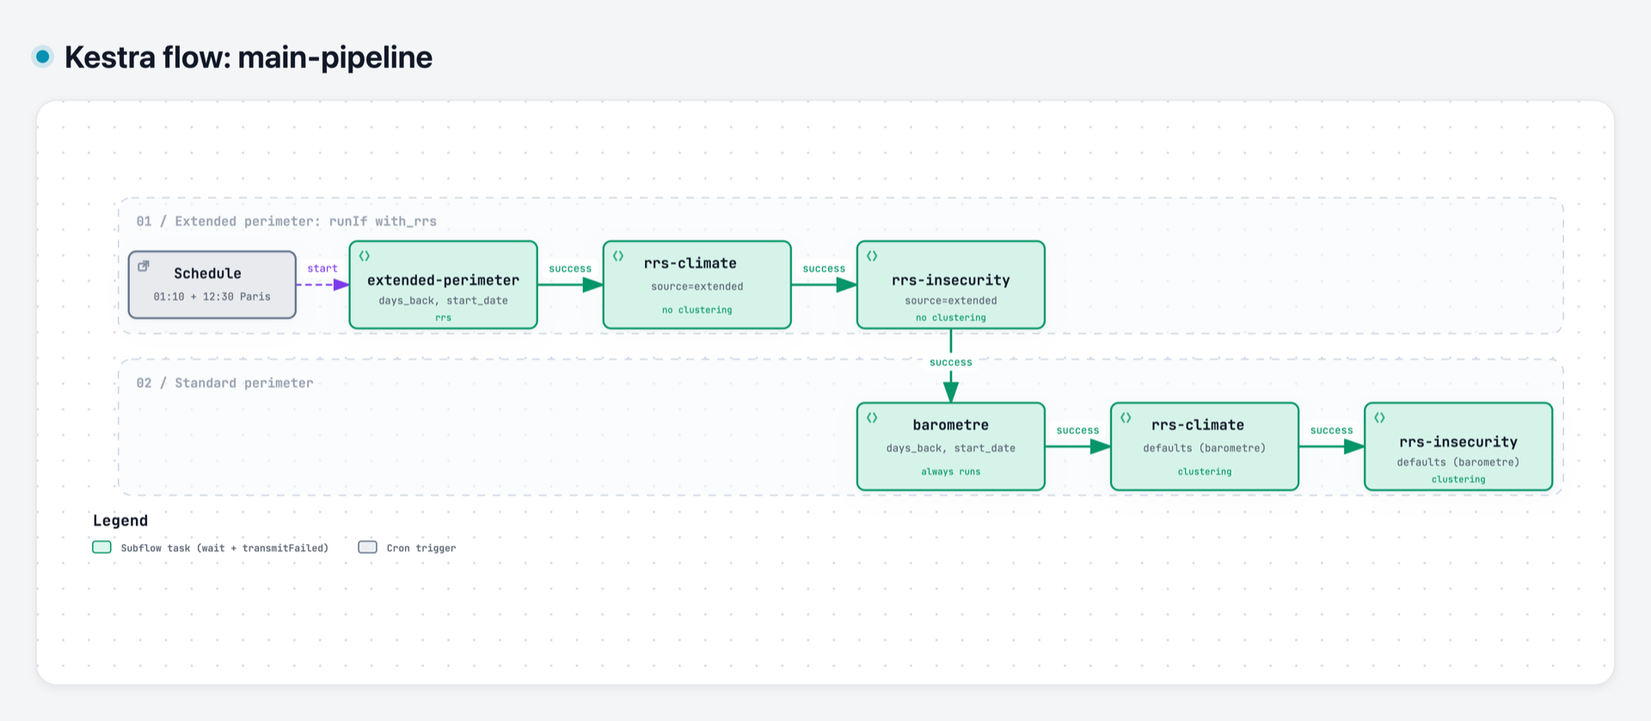
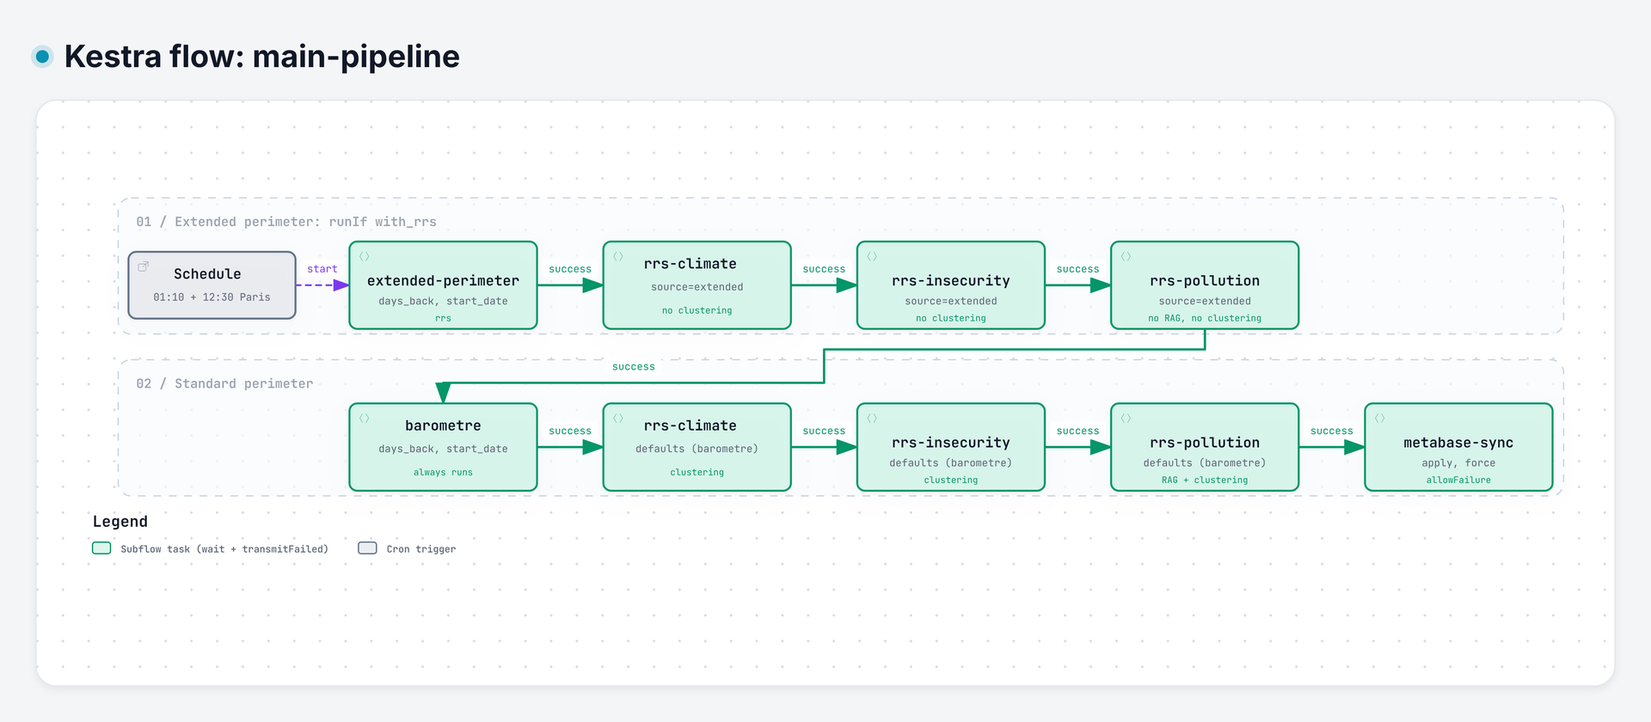
docs: main-pipeline diagram with the rrs-pollution steps and metabase-sync last
Rendered with Archify 3.0.1 (workflow, showcase), PNG exported in the light theme.

Claude-Session: https://claude.ai/code/session_01CCtPjNXbPoMu11qUobUY8j

diff --git a/docs/diagrams/flows/main-pipeline.html b/docs/diagrams/flows/main-pipeline.html
@@ -4982,7 +4982,7 @@ OTHER DEALINGS IN THE FONT SOFTWARE.
       </div>
     </div>
 
-    <script id="archify-source-evidence-data" type="application/json">{"schemaVersion":1,"verified":true,"repository":{"url":"git@github.com:dataforgoodfr/quotaclimat","revision":"c2defa51aafeac09df8121d063d0d352c0d1af69","shortRevision":"c2defa5","label":"dataforgoodfr/quotaclimat","linkMode":"local-only"},"referenceCount":7,"nodes":{"cron":[{"path":"infrastructure/kestra/flows/main_quotaclimat_mainpipeline.yaml","line":29,"endLine":38,"label":"triggers"}],"s_ext":[{"path":"infrastructure/kestra/flows/main_quotaclimat_mainpipeline.yaml","line":41,"endLine":50,"label":"subflow 1"}],"s_clim_ext":[{"path":"infrastructure/kestra/flows/main_quotaclimat_mainpipeline.yaml","line":52,"endLine":61,"label":"subflow 2"}],"s_insec_ext":[{"path":"infrastructure/kestra/flows/main_quotaclimat_mainpipeline.yaml","line":63,"endLine":72,"label":"subflow 3"}],"s_baro":[{"path":"infrastructure/kestra/flows/main_quotaclimat_mainpipeline.yaml","line":74,"endLine":82,"label":"subflow 4"}],"s_clim":[{"path":"infrastructure/kestra/flows/main_quotaclimat_mainpipeline.yaml","line":84,"endLine":90,"label":"subflow 5"}],"s_insec":[{"path":"infrastructure/kestra/flows/main_quotaclimat_mainpipeline.yaml","line":92,"endLine":98,"label":"subflow 6"}]}}</script>
+    <script id="archify-source-evidence-data" type="application/json">{"schemaVersion":1,"verified":true,"repository":{"url":"git@github.com:dataforgoodfr/quotaclimat","revision":"fb3faa8817d2df9f107b7281d69ce9f6ca0b9d7e","shortRevision":"fb3faa8","label":"dataforgoodfr/quotaclimat","linkMode":"local-only"},"referenceCount":10,"nodes":{"cron":[{"path":"infrastructure/kestra/flows/main_quotaclimat_mainpipeline.yaml","line":34,"endLine":43,"label":"triggers"}],"s_ext":[{"path":"infrastructure/kestra/flows/main_quotaclimat_mainpipeline.yaml","line":46,"endLine":55,"label":"subflow 1"}],"s_clim_ext":[{"path":"infrastructure/kestra/flows/main_quotaclimat_mainpipeline.yaml","line":57,"endLine":66,"label":"subflow 2"}],"s_insec_ext":[{"path":"infrastructure/kestra/flows/main_quotaclimat_mainpipeline.yaml","line":68,"endLine":77,"label":"subflow 3"}],"s_poll_ext":[{"path":"infrastructure/kestra/flows/main_quotaclimat_mainpipeline.yaml","line":79,"endLine":89,"label":"subflow 4"}],"s_baro":[{"path":"infrastructure/kestra/flows/main_quotaclimat_mainpipeline.yaml","line":91,"endLine":99,"label":"subflow 5"}],"s_clim":[{"path":"infrastructure/kestra/flows/main_quotaclimat_mainpipeline.yaml","line":101,"endLine":107,"label":"subflow 6"}],"s_insec":[{"path":"infrastructure/kestra/flows/main_quotaclimat_mainpipeline.yaml","line":109,"endLine":115,"label":"subflow 7"}],"s_poll":[{"path":"infrastructure/kestra/flows/main_quotaclimat_mainpipeline.yaml","line":117,"endLine":123,"label":"subflow 8"}],"s_metabase":[{"path":"infrastructure/kestra/flows/main_quotaclimat_mainpipeline.yaml","line":125,"endLine":135,"label":"subflow 9"}]}}</script>
     <script id="archify-i18n-data" type="application/json">{"locale":"en","messages":{"viewer.kind.frontend":"Frontend","viewer.kind.backend":"Backend","viewer.kind.database":"Database","viewer.kind.cloud":"Cloud","viewer.kind.security":"Security","viewer.kind.messagebus":"Message bus","viewer.kind.external":"External","viewer.kind.neutral":"Neutral","viewer.kind.node":"Node","viewer.kind.start":"Start","viewer.kind.active":"Active","viewer.kind.waiting":"Waiting","viewer.kind.decision":"Decision","viewer.kind.success":"Success","viewer.kind.failure":"Failure","viewer.toolbar.actions":"Diagram actions","viewer.theme.toggle.title":"Toggle theme (T)","viewer.theme.toggle":"Toggle color theme","viewer.theme.dark":"Dark","viewer.theme.light":"Light","viewer.preset.choose.title":"Choose visual style (S cycles)","viewer.preset.choose":"Choose visual style","viewer.preset.style":"Style","viewer.preset.menu":"Visual style","viewer.preset.identity":"Visual identity","viewer.preset.cycles":"to cycle","viewer.preset.classic":"Classic","viewer.preset.classic.short":"Classic","viewer.preset.classic.hint":"Stable technical default","viewer.preset.flow":"Signal Flow","viewer.preset.flow.short":"Flow","viewer.preset.flow.hint":"Motion-forward presentation","viewer.preset.blueprint":"Blueprint","viewer.preset.blueprint.hint":"Engineering review","viewer.preset.editorial":"Editorial","viewer.preset.editorial.hint":"Publication and launch notes","viewer.preset.badge.signalFlow":"SIGNAL FLOW","viewer.preset.badge.blueprint":"BLUEPRINT / REV 01","viewer.preset.badge.editorial":"EDITORIAL / FIELD NOTE","viewer.preset.badge.editorialPlate":"ARCHIFY / PLATE 04","viewer.preset.current":"Visual style: {style}. Choose visual style","viewer.motion.live":"Live","viewer.motion.still":"Still","viewer.motion.pause":"Pause motion","viewer.motion.resume":"Resume motion","viewer.motion.reduced":"Motion paused by reduced-motion preference","viewer.motion.hidden":"Motion paused while this page is hidden","viewer.motion.yielding":"Pause motion; currently yielding to {owner}","viewer.motion.yielding.title":"Live preview enabled · yielding to {owner}","viewer.owner.route":"Route Probe","viewer.owner.lens":"Semantic Lens","viewer.owner.relationship":"Relationship Preview","viewer.owner.intent":"Intent Trace","viewer.owner.focus":"semantic focus","viewer.owner.legend":"legend preview","viewer.owner.reader":"reader interaction","viewer.present.enter":"Enter presentation stage","viewer.present.enter.title":"Presentation stage (F)","viewer.present.exit":"Exit presentation stage","viewer.present.exit.title":"Exit presentation stage (F or Escape)","viewer.present.present":"Present","viewer.present.exit.label":"Exit","viewer.export.button":"Export","viewer.export.button.title":"Export diagram (E)","viewer.export.diagram":"Export diagram","viewer.export.menu":"Export","viewer.export.subtitle":"Portable, clean outputs","viewer.export.share":"Share","viewer.export.shareCard":"Share Card","viewer.export.routeShareCard":"Route Share Card","viewer.export.reachShareCard":"Reach Share Card","viewer.export.copyDiagram":"Copy diagram","viewer.export.clipboardPng":"PNG to clipboard","viewer.export.raster":"Raster images","viewer.export.image":"Image","viewer.export.lossless":"Lossless image","viewer.export.compact":"Compact image","viewer.export.modern":"Modern image","viewer.export.vectorMotion":"Vector and motion","viewer.export.vectorMotion.heading":"Vector \u0026 motion","viewer.export.editable":"Editable vector","viewer.export.svg.auto":"SVG · Auto","viewer.export.svg.auto.hint":"Matches host theme","viewer.export.svg.light":"SVG · Light","viewer.export.svg.light.hint":"Always light","viewer.export.svg.dark":"SVG · Dark","viewer.export.svg.dark.hint":"Always dark","viewer.export.motion6s":"6s motion","viewer.export.unsupported":"Not supported by this browser","viewer.export.clipboardUnsupported":"Clipboard image write not supported by this browser","viewer.export.clipboardUnsupported.short":"Clipboard image write not supported in this browser.","viewer.export.motionUnavailable":"Motion capture unavailable in this browser","viewer.export.webmUnavailable":"WebM unavailable in this browser","viewer.export.failed":"Export failed: {message}","viewer.export.unknownVariant":"Unknown Share Card variant: {variant}","viewer.export.routeRequired":"Trace a route before exporting a Route Share Card","viewer.export.reachRequired":"Trace authored reach before exporting a Reach Share Card","viewer.export.unknown":"unknown","viewer.export.routeFailed":"Route Share Card export failed: {message}","viewer.export.reachFailed":"Reach Share Card export failed: {message}","viewer.export.copyFailed":"Copy failed: {message}","viewer.export.copiedPng":"Copied PNG to clipboard","viewer.export.downloadedRoute":"Downloaded Route Share Card","viewer.export.downloadedReach":"Downloaded Reach Share Card","viewer.export.downloadedWebm":"Downloaded WebM","viewer.export.recording":"Recording 6 seconds of motion…","viewer.export.card.routeSummary.one":"Path: {source} → {target} · {count} step","viewer.export.card.routeSummary.other":"Path: {source} → {target} · {count} steps","viewer.export.card.reachSummary":"Authored {direction} from {origin} · {nodes} · {links} · max {hops}","viewer.export.card.node.one":"{count} node","viewer.export.card.node.other":"{count} nodes","viewer.export.card.link.one":"{count} link","viewer.export.card.link.other":"{count} links","viewer.export.card.hop.one":"{count} hop","viewer.export.card.hop.other":"{count} hops","viewer.export.card.routeBadge":"ARCHIFY · ROUTE · {hops}","viewer.export.card.reachBadge":"ARCHIFY · {direction} REACH","viewer.export.direction.upstream":"Upstream","viewer.export.direction.downstream":"Downstream","viewer.export.error.canvasUnavailable":"Canvas unavailable for {label}","viewer.export.error.contextUnavailable":"2D canvas context unavailable for {label}","viewer.export.error.toBlobUnavailable":"canvas.toBlob unavailable for {label}","viewer.export.error.toBlobNull":"canvas.toBlob returned no data for {label}","viewer.export.error.variantsCombined":"Share Card variants cannot be combined","viewer.export.error.viewerState":"Share Card export could not remove temporary viewer state","viewer.export.error.routeState":"Route Card export could not preserve the resolved route safely","viewer.export.error.reachState":"Reach Card export could not preserve authored reach safely","viewer.export.error.webmRequirements":"WebM motion export requires a trace animation and browser MediaRecorder support","viewer.export.error.mediaRecorder":"MediaRecorder failed","viewer.export.error.emptyWebm":"MediaRecorder produced an empty WebM","viewer.export.error.webmBackground":"SVG background could not be loaded for WebM export","viewer.guide.title":"Explore this system","viewer.focus.selectedNodes":"{count} selected nodes","viewer.guide.eyebrow":"Diagram guide","viewer.guide.close":"Close diagram guide","viewer.guide.inspecting":"Inspecting compiled semantics","viewer.guide.actions":"Diagram exploration actions","viewer.guide.find":"Find any node","viewer.guide.find.hint":"Search labels, responsibilities, kinds, and stable IDs.","viewer.guide.route":"Trace a route","viewer.guide.route.aria":"Trace a directed route","viewer.guide.route.hint":"Ask how two semantic nodes connect in authored direction.","viewer.guide.map":"See the whole system","viewer.guide.map.hint":"Open Semantic Radar with a live viewport and stable nodes.","viewer.guide.lens":"Compare semantic kinds","viewer.guide.lens.hint":"Count roles, reveal their traffic, and compare direct authored links.","viewer.guide.present":"Enter Presentation Stage","viewer.guide.present.hint":"Give the live diagram the viewport without changing export.","viewer.guide.shortcuts":"Additional keyboard shortcuts","viewer.guide.shortcut.export":"Export","viewer.guide.shortcut.theme":"Theme","viewer.guide.shortcut.style":"Style","viewer.guide.shortcut.reset":"Reset","viewer.guide.shortcut.zoomIn":"Zoom in","viewer.guide.shortcut.zoomOut":"Zoom out","viewer.guide.shortcut.close":"Close","viewer.guide.facts":"{nodes} · {relationships}","viewer.guide.fact.node.one":"{count} semantic node","viewer.guide.fact.node.other":"{count} semantic nodes","viewer.guide.fact.relationship.one":"{count} relationship","viewer.guide.fact.relationship.other":"{count} relationships","viewer.guide.open":"Open diagram guide","viewer.finder.title":"Find a node","viewer.finder.close":"Close node finder","viewer.finder.placeholder":"Search labels or IDs","viewer.finder.search":"Search diagram nodes","viewer.finder.results":"Diagram nodes","viewer.finder.empty":"No matching nodes","viewer.finder.result.focus":"Focus {label}","viewer.finder.result.routeStart":"Choose {label} as route start","viewer.finder.result.routeTarget":"Choose {label} as route destination, {links}","viewer.finder.status.empty":"No matching nodes","viewer.finder.status.count.one":"{count} matching node","viewer.finder.status.count.other":"{count} matching nodes","viewer.finder.noun.nodes":"nodes","viewer.finder.link.one":"{count} link","viewer.finder.link.other":"{count} links","viewer.finder.result.focus.one":"Focus {label}, {count} related connection","viewer.finder.result.focus.other":"Focus {label}, {count} related connections","viewer.finder.status.filtered":"{visible} of {available} {noun}","viewer.finder.status.all":"{available} {noun}","viewer.passport.eyebrow":"Semantic passport","viewer.passport.metadata":"Node metadata","viewer.passport.evidence":"Verified source evidence","viewer.passport.verified":"Verified source","viewer.passport.verificationScope":"Verified against local Git at the pinned revision. Remote access has not been checked.","viewer.passport.reach":"Authored reach","viewer.passport.reach.trace":"Trace authored reachability","viewer.passport.upstream":"Upstream","viewer.passport.downstream":"Downstream","viewer.passport.upstream.trace":"Trace upstream authored reachability","viewer.passport.downstream.trace":"Trace downstream authored reachability","viewer.passport.close":"Close semantic passport","viewer.passport.move":"Move semantic passport. Drag, use arrow keys, or press Home to reset.","viewer.passport.copy":"Copy link","viewer.passport.copy.focus":"Copy link to focused node","viewer.passport.relations":"Relations","viewer.passport.relations.show":"Show connected relationships","viewer.passport.relations.hide":"Hide connected relationships","viewer.passport.relations.list":"Connected relationships","viewer.passport.copyRelation":"Copy relation","viewer.passport.copyNode":"Copy node","viewer.passport.copyPinned":"Copy link to pinned relationship","viewer.passport.copySource":"Copy link to source node","viewer.passport.copy.focused.success":"Focused node link copied","viewer.passport.copy.pinned.success":"Pinned relationship link copied","viewer.passport.copy.focused.failed":"Could not copy focused node link","viewer.passport.copy.pinned.failed":"Could not copy pinned relationship link","viewer.passport.relationship.none":"No connected relationships","viewer.passport.relationship.count.one":"{count} relation","viewer.passport.relationship.count.other":"{count} relations","viewer.passport.relationship.show.one":"Show {count} connected relationship","viewer.passport.relationship.show.other":"Show {count} connected relationships","viewer.passport.relationship.summary":"{out} outgoing · {in} incoming{loops}","viewer.passport.relationship.loops":" · {count} loop","viewer.passport.relationship.explorer":"Direct relationship explorer","viewer.passport.relationship.help":"Use arrow keys to explore relationships. Press Enter or Space to pin details; Escape clears.","viewer.passport.relationship.loopsBack":"loops back","viewer.passport.relationship.connectsTo":"connects to","viewer.passport.relationship.connectsFrom":"connects from","viewer.passport.relationship.pinned":"Pinned relationship · {from} → {to} · {label}","viewer.passport.relationship.inspect":"Inspect relationship {index} of {total}: {from} to {to}, {label}. Press Enter for details.","viewer.passport.relationship.group.out":"Outgoing","viewer.passport.relationship.group.in":"Incoming","viewer.passport.relationship.group.loop":"Self loops","viewer.passport.relationship.row":"{group}: {relationship}, {neighbor}","viewer.passport.relationship.direction.out":"OUT →","viewer.passport.relationship.direction.in":"← IN","viewer.passport.relationship.direction.loop":"LOOP","viewer.passport.sourceCount.one":"{count} verified source reference","viewer.passport.sourceCount.other":"{count} verified source references","viewer.passport.sourceMarker":"SRC","viewer.passport.beacon.one":"{count} verified source; focus this node to inspect","viewer.passport.beacon.other":"{count} verified sources; focus this node to inspect","viewer.passport.repository.open":"Open verified repository revision {revision}","viewer.passport.source.open":"Open verified source {path} at revision {revision}","viewer.passport.source.openLink":"Open ↗","viewer.passport.reach.upstream.one":"Trace {count} upstream authored node","viewer.passport.reach.upstream.other":"Trace {count} upstream authored nodes","viewer.passport.reach.downstream.one":"Trace {count} downstream authored node","viewer.passport.reach.downstream.other":"Trace {count} downstream authored nodes","viewer.passport.reach.noUpstream":"No upstream authored nodes","viewer.passport.reach.noDownstream":"No downstream authored nodes","viewer.passport.reach.status":"{direction} · {nodes} nodes · {links} links · max {hops} hops","viewer.route.eyebrow":"Path","viewer.route.start":"Click where the path starts","viewer.route.start.find":"Find start","viewer.route.start.find.aria":"Find a route start","viewer.route.copy":"Copy link","viewer.route.copy.aria":"Copy link to traced route","viewer.route.clear":"Clear","viewer.route.clear.aria":"Clear route probe","viewer.route.traced":"Path","viewer.route.pickTwo":"Click two nodes on the diagram","viewer.route.pickOne":"Click a node on the diagram","viewer.route.controls":"Route journey controls","viewer.route.previous":"Previous route position","viewer.route.play":"Play route journey","viewer.route.pause":"Pause route journey","viewer.route.replay":"Replay route journey","viewer.route.next":"Next route position","viewer.route.journey":"Journey","viewer.route.pause.label":"Pause","viewer.route.replay.label":"Replay","viewer.route.overview":"Overview","viewer.route.overview.aria":"Show complete route overview","viewer.route.instructions":"Click a start, then an end. Paths follow the arrows.","viewer.route.destination":"Where does the path from {label} end?","viewer.route.destination.find":"Find target","viewer.route.destination.find.aria":"Find a reachable route destination","viewer.route.differentDestination":"Choose a different destination","viewer.route.distinct":"Pick two different nodes.","viewer.route.unreachable":"Cannot reach {label} from here","viewer.route.unreachable.detail":"{target} cannot be reached from {source} along the arrows. Pick a highlighted node.","viewer.route.start.instructions":"Next, pick the end. Only nodes you can reach will light up.","viewer.route.copy.success":"Traced route link copied","viewer.route.copy.failed":"Could not copy traced route link","viewer.route.position":"Route position {index} of {total}: {label}","viewer.route.step":"Step {index} of {total} · {phase} · {label}","viewer.route.motionRequired":"Automatic journey requires Live motion","viewer.route.trigger.clear":"Clear traced route","viewer.route.overview.status":"{nodes} · {hops} · shortest path","viewer.route.overview.node.one":"{count} node","viewer.route.overview.node.other":"{count} nodes","viewer.route.overview.hop.one":"{count} step","viewer.route.overview.hop.other":"{count} steps","viewer.route.phase.playing":"Playing","viewer.route.phase.complete":"Complete","viewer.route.phase.inspecting":"Inspecting","viewer.route.destination.count.one":"{count} reachable node is highlighted. Click it.","viewer.route.destination.count.other":"{count} reachable nodes are highlighted. Click one.","viewer.route.noOutgoing":"No arrows lead out of this node. Clear it and pick another start.","viewer.route.result.title":"{source} to {target}","viewer.route.finder.source.title":"Choose route start","viewer.route.finder.source.placeholder":"Search route sources","viewer.route.finder.source.empty":"No matching route sources","viewer.route.finder.source.results":"Nodes that can start a route","viewer.route.finder.source.noun":"route sources","viewer.route.finder.source.badge":"start","viewer.route.finder.target.title":"Destination from {label}","viewer.route.finder.target.placeholder":"Search reachable destinations","viewer.route.finder.target.empty":"No matching reachable destinations","viewer.route.finder.target.results":"Reachable route destinations","viewer.route.finder.target.noun":"reachable destinations","viewer.route.hop.one":"{count} hop","viewer.route.hop.other":"{count} hops","viewer.lens.eyebrow":"Semantic lens","viewer.lens.title":"Compare system roles","viewer.lens.close":"Close semantic lens","viewer.lens.instruction":"Choose up to two semantic kinds. One reveals its real traffic; two compare only direct authored relationships.","viewer.lens.kinds":"Semantic kinds","viewer.lens.choose":"Choose a kind to inspect its nodes and touching relationships.","viewer.lens.copy":"Copy link to semantic lens","viewer.lens.clear":"Clear semantic lens","viewer.lens.open":"Open semantic lens","viewer.lens.openActive":"Open active semantic lens","viewer.lens.legend":"Semantic legend","viewer.lens.legend.inspect.one":"Inspect {label}, {count} node","viewer.lens.legend.inspect.other":"Inspect {label}, {count} nodes","viewer.lens.kind.count.one":"{label}, {count} node","viewer.lens.kind.count.other":"{label}, {count} nodes","viewer.lens.compare.one":"{first} → {second}: {forward} · {second} → {first}: {reverse} · {count} direct relationship","viewer.lens.compare.other":"{first} → {second}: {forward} · {second} → {first}: {reverse} · {count} direct relationships","viewer.lens.single":"{nodes} · {relationships} · connected peers remain visible","viewer.lens.node.one":"{count} {label} node","viewer.lens.node.other":"{count} {label} nodes","viewer.lens.relationship.one":"{count} touching relationship","viewer.lens.relationship.other":"{count} touching relationships","viewer.radar.title":"Semantic radar","viewer.radar.building":"Building overview","viewer.radar.openFull":"Open full semantic radar","viewer.radar.open":"Open radar","viewer.radar.close":"Close semantic radar","viewer.radar.surface":"Diagram overview. Click a node to focus it, or use arrow keys to pan.","viewer.radar.click":"Click node","viewer.radar.drag":"Drag to pan","viewer.radar.space":"Semantic radar needs more MAP space.","viewer.radar.nodes":"Semantic diagram radar nodes","viewer.radar.focus":"Focus {label} from Semantic Radar","viewer.radar.status":"{count} nodes · {viewport}","viewer.radar.fullMap":"{count} nodes · full map","viewer.radar.compacted":"Radar compacted to avoid covering the Semantic Passport or MAP controls.","viewer.radar.cancelWaiting":"Cancel semantic radar waiting for more MAP space","viewer.radar.needsSpace":"Semantic radar needs more visible MAP space","viewer.radar.viewport.full":"full map","viewer.radar.viewport.width":"{percent}% width","viewer.radar.viewport.scale":"{percent}% viewport","viewer.nav.controls":"Diagram view controls","viewer.nav.route":"Trace a directed route","viewer.nav.route.title":"Trace route (R)","viewer.nav.route.short":"PATH","viewer.nav.radar":"Open semantic radar","viewer.nav.radar.title":"Semantic radar (M)","viewer.nav.radar.short":"MAP","viewer.nav.lens":"Open semantic lens","viewer.nav.lens.title":"Semantic lens (L)","viewer.nav.lens.short":"LENS","viewer.nav.find":"Find a node","viewer.nav.find.title":"Find a node (/)","viewer.outline.title":"Node index","viewer.rail.show":"Notes \u0026 index","viewer.rail.controls":"Side panel","viewer.rail.collapse":"Collapse side panel","viewer.rail.bottom":"Move panel below the diagram","viewer.rail.right":"Move panel beside the diagram","viewer.nav.guide":"Open diagram guide","viewer.nav.guide.title":"Diagram guide (?)","viewer.nav.zoomOut":"Zoom out","viewer.nav.zoomOut.title":"Zoom out (-)","viewer.nav.reset":"Reset diagram view","viewer.nav.reset.title":"Reset view (0)","viewer.nav.read":"READ","viewer.nav.zoomIn":"Zoom in","viewer.nav.zoomIn.title":"Zoom in (+)","viewer.nav.camera":"{hint}. Reset diagram view","viewer.nav.camera.title":"{semantic}{hint} · reset view (0)","viewer.nav.camera.semantic":"Semantic camera active · ","viewer.nav.level.map":"MAP","viewer.nav.level.read":"READ","viewer.nav.level.full":"FULL","viewer.nav.level.auto":"AUTO","viewer.nav.detail.map":"Zoom in to reveal relationship labels and node context","viewer.nav.detail.read":"Zoom in again to reveal tags and annotations","viewer.nav.detail.full":"Full diagram detail","viewer.intent.summary":"{label}. {out} outgoing, {in} incoming{loops}. {total} connections. Press Enter for details.","viewer.intent.loops":", {count} self loop","viewer.common.copied":"Copied","viewer.common.copyFailed":"Copy failed","viewer.common.copyLink":"Copy link","viewer.common.clear":"Clear","viewer.common.close":"Close"}}</script>
     <!-- Main Diagram -->
     <div class="diagram-container" data-detail-level="read"
@@ -5026,12 +5026,15 @@ OTHER DEALINGS IN THE FONT SOFTWARE.
 
 
         <!-- Edge paths -->
-        <path data-edge-from="s_ext" data-edge-to="s_clim_ext" data-edge-label="success" data-edge-key="0" data-edge-id="e-1" data-composition-routing="workflow-v2-auto" data-edge-role="main" data-composition-points="366,120;417.6,120" d="M 366 120 L 417.6 120" class="a-emphasis" stroke-width="1.8" marker-end="url(#arrowhead-emphasis)"/>
-        <path data-edge-from="s_clim_ext" data-edge-to="s_insec_ext" data-edge-label="success" data-edge-key="1" data-edge-id="e-2" data-composition-routing="workflow-v2-auto" data-edge-role="main" data-composition-points="563.6,120;615.2,120" d="M 563.6 120 L 615.2 120" class="a-emphasis" stroke-width="1.8" marker-end="url(#arrowhead-emphasis)"/>
-        <path data-edge-from="s_insec_ext" data-edge-to="s_baro" data-edge-label="success" data-edge-key="2" data-edge-id="e-3" data-edge-role="main" data-composition-points="688.2,154;688.2,212" d="M 688.2 154 L 688.2 212" class="a-emphasis" stroke-width="1.8" marker-end="url(#arrowhead-emphasis)"/>
-        <path data-edge-from="s_baro" data-edge-to="s_clim" data-edge-label="success" data-edge-key="3" data-edge-id="e-4" data-composition-routing="workflow-v2-auto" data-edge-role="main" data-composition-points="761.2,246;812.8000000000001,246" d="M 761.2 246 L 812.8000000000001 246" class="a-emphasis" stroke-width="1.8" marker-end="url(#arrowhead-emphasis)"/>
-        <path data-edge-from="s_clim" data-edge-to="s_insec" data-edge-label="success" data-edge-key="4" data-edge-id="e-5" data-composition-routing="workflow-v2-auto" data-edge-role="main" data-composition-points="958.8000000000001,246;1010.4000000000001,246" d="M 958.8000000000001 246 L 1010.4000000000001 246" class="a-emphasis" stroke-width="1.8" marker-end="url(#arrowhead-emphasis)"/>
-        <path data-edge-from="cron" data-edge-to="s_ext" data-edge-label="start" data-edge-key="5" data-edge-id="e-cron" data-composition-routing="workflow-v2-auto" data-edge-role="" data-composition-points="178,120;220,120" d="M 178 120 L 220 120" class="a-dashed" stroke-width="1.4" marker-end="url(#arrowhead-dashed)"/>
+        <path data-edge-from="s_ext" data-edge-to="s_clim_ext" data-edge-label="success" data-edge-key="0" data-edge-id="e-1" data-composition-routing="workflow-v2-auto" data-edge-role="branch" data-composition-points="366,120;417.6,120" d="M 366 120 L 417.6 120" class="a-emphasis" stroke-width="1.8" marker-end="url(#arrowhead-emphasis)"/>
+        <path data-edge-from="s_clim_ext" data-edge-to="s_insec_ext" data-edge-label="success" data-edge-key="1" data-edge-id="e-2" data-composition-routing="workflow-v2-auto" data-edge-role="branch" data-composition-points="563.6,120;615.2,120" d="M 563.6 120 L 615.2 120" class="a-emphasis" stroke-width="1.8" marker-end="url(#arrowhead-emphasis)"/>
+        <path data-edge-from="s_insec_ext" data-edge-to="s_poll_ext" data-edge-label="success" data-edge-key="2" data-edge-id="e-3" data-composition-routing="workflow-v2-auto" data-edge-role="branch" data-composition-points="761.2,120;812.8000000000001,120" d="M 761.2 120 L 812.8000000000001 120" class="a-emphasis" stroke-width="1.8" marker-end="url(#arrowhead-emphasis)"/>
+        <path data-edge-from="s_poll_ext" data-edge-to="s_baro" data-edge-label="success" data-edge-key="3" data-edge-id="e-4" data-edge-role="return" data-composition-points="885.8000000000001,154;885.8000000000001,170;589.4000000000001,170;589.4000000000001,196;293,196;293,212" d="M 885.8000000000001 154 L 885.8000000000001 170 L 589.4000000000001 170 L 589.4000000000001 196 L 293 196 L 293 212" class="a-emphasis" stroke-width="1.8" marker-end="url(#arrowhead-emphasis)"/>
+        <path data-edge-from="s_baro" data-edge-to="s_clim" data-edge-label="success" data-edge-key="4" data-edge-id="e-5" data-composition-routing="workflow-v2-auto" data-edge-role="main" data-composition-points="366,246;417.6,246" d="M 366 246 L 417.6 246" class="a-emphasis" stroke-width="1.8" marker-end="url(#arrowhead-emphasis)"/>
+        <path data-edge-from="s_clim" data-edge-to="s_insec" data-edge-label="success" data-edge-key="5" data-edge-id="e-6" data-composition-routing="workflow-v2-auto" data-edge-role="main" data-composition-points="563.6,246;615.2,246" d="M 563.6 246 L 615.2 246" class="a-emphasis" stroke-width="1.8" marker-end="url(#arrowhead-emphasis)"/>
+        <path data-edge-from="s_insec" data-edge-to="s_poll" data-edge-label="success" data-edge-key="6" data-edge-id="e-7" data-composition-routing="workflow-v2-auto" data-edge-role="main" data-composition-points="761.2,246;812.8000000000001,246" d="M 761.2 246 L 812.8000000000001 246" class="a-emphasis" stroke-width="1.8" marker-end="url(#arrowhead-emphasis)"/>
+        <path data-edge-from="s_poll" data-edge-to="s_metabase" data-edge-label="success" data-edge-key="7" data-edge-id="e-8" data-composition-routing="workflow-v2-auto" data-edge-role="main" data-composition-points="958.8000000000001,246;1010.4000000000001,246" d="M 958.8000000000001 246 L 1010.4000000000001 246" class="a-emphasis" stroke-width="1.8" marker-end="url(#arrowhead-emphasis)"/>
+        <path data-edge-from="cron" data-edge-to="s_ext" data-edge-label="start" data-edge-key="8" data-edge-id="e-cron" data-composition-routing="workflow-v2-auto" data-edge-role="" data-composition-points="178,120;220,120" d="M 178 120 L 220 120" class="a-dashed" stroke-width="1.4" marker-end="url(#arrowhead-dashed)"/>
 
         <!-- Nodes -->
         <g id="node-cron" data-node-id="cron" data-node-label="Schedule" tabindex="0" role="button" aria-label="Focus Schedule, 01:10 + 12:30 Paris, Extended perimeter: runIf with_rrs" aria-pressed="false" data-node-kind="external" data-node-sublabel="01:10 + 12:30 Paris" data-node-context="Extended perimeter: runIf with_rrs">
@@ -5082,40 +5085,76 @@ OTHER DEALINGS IN THE FONT SOFTWARE.
         <text data-detail="fine" x="688.2" y="147.9" class="t-backend" font-size="7" text-anchor="middle">no clustering</text>
         </g>
 
+        <g id="node-s_poll_ext" data-node-id="s_poll_ext" data-node-label="rrs-pollution" tabindex="0" role="button" aria-label="Focus rrs-pollution, source=extended, Extended perimeter: runIf with_rrs" aria-pressed="false" data-node-kind="backend" data-node-sublabel="source=extended" data-node-tag="no RAG, no clustering" data-node-context="Extended perimeter: runIf with_rrs">
+          <title>rrs-pollution · source=extended · Extended perimeter: runIf with_rrs · no RAG, no clustering</title>
+          <rect x="812.8000000000001" y="86" width="146" height="68" rx="6" class="c-mask"/>
+          <rect x="812.8000000000001" y="86" width="146" height="68" rx="6" class="c-backend" stroke-width="1.5"/>
+          <g aria-hidden="true" data-semantic-sigil="backend" class="semantic-sigil s-backend" transform="translate(818.8000000000001 92) scale(0.6875)">
+            <path d="M6 3 3 8l3 5M10 3l3 5-3 5"/>
+          </g>
+          <text data-node-label="" data-detail-anchor="" x="885.8000000000001" y="120.2" class="t-primary" font-size="11" font-weight="600" text-anchor="middle">rrs-pollution</text>
+          <text data-detail="context" x="885.8000000000001" y="135.1" class="t-muted" font-size="8" text-anchor="middle">source=extended</text>
+        <text data-detail="fine" x="885.8000000000001" y="147.9" class="t-backend" font-size="7" text-anchor="middle">no RAG, no clustering</text>
+        </g>
+
         <g id="node-s_baro" data-node-id="s_baro" data-node-label="barometre" tabindex="0" role="button" aria-label="Focus barometre, days_back, start_date, Standard perimeter" aria-pressed="false" data-node-kind="backend" data-node-sublabel="days_back, start_date" data-node-tag="always runs" data-node-context="Standard perimeter">
           <title>barometre · days_back, start_date · Standard perimeter · always runs</title>
+          <rect x="220" y="212" width="146" height="68" rx="6" class="c-mask"/>
+          <rect x="220" y="212" width="146" height="68" rx="6" class="c-backend" stroke-width="1.5"/>
+          <g aria-hidden="true" data-semantic-sigil="backend" class="semantic-sigil s-backend" transform="translate(226 218) scale(0.6875)">
+            <path d="M6 3 3 8l3 5M10 3l3 5-3 5"/>
+          </g>
+          <text data-node-label="" data-detail-anchor="" x="293" y="233" class="t-primary" font-size="11" font-weight="600" text-anchor="middle">barometre</text>
+          <text data-detail="context" x="293" y="250" class="t-muted" font-size="8" text-anchor="middle">days_back, start_date</text>
+        <text data-detail="fine" x="293" y="268" class="t-backend" font-size="7" text-anchor="middle">always runs</text>
+        </g>
+
+        <g id="node-s_clim" data-node-id="s_clim" data-node-label="rrs-climate" tabindex="0" role="button" aria-label="Focus rrs-climate, defaults (barometre), Standard perimeter" aria-pressed="false" data-node-kind="backend" data-node-sublabel="defaults (barometre)" data-node-tag="clustering" data-node-context="Standard perimeter">
+          <title>rrs-climate · defaults (barometre) · Standard perimeter · clustering</title>
+          <rect x="417.6" y="212" width="146" height="68" rx="6" class="c-mask"/>
+          <rect x="417.6" y="212" width="146" height="68" rx="6" class="c-backend" stroke-width="1.5"/>
+          <g aria-hidden="true" data-semantic-sigil="backend" class="semantic-sigil s-backend" transform="translate(423.6 218) scale(0.6875)">
+            <path d="M6 3 3 8l3 5M10 3l3 5-3 5"/>
+          </g>
+          <text data-node-label="" data-detail-anchor="" x="485.3" y="233" class="t-primary" font-size="11" font-weight="600" text-anchor="middle">rrs-climate</text>
+          <text data-detail="context" x="490.6" y="250" class="t-muted" font-size="8" text-anchor="middle">defaults (barometre)</text>
+        <text data-detail="fine" x="490.6" y="268" class="t-backend" font-size="7" text-anchor="middle">clustering</text>
+        </g>
+
+        <g id="node-s_insec" data-node-id="s_insec" data-node-label="rrs-insecurity" tabindex="0" role="button" aria-label="Focus rrs-insecurity, defaults (barometre), Standard perimeter" aria-pressed="false" data-node-kind="backend" data-node-sublabel="defaults (barometre)" data-node-tag="clustering" data-node-context="Standard perimeter">
+          <title>rrs-insecurity · defaults (barometre) · Standard perimeter · clustering</title>
           <rect x="615.2" y="212" width="146" height="68" rx="6" class="c-mask"/>
           <rect x="615.2" y="212" width="146" height="68" rx="6" class="c-backend" stroke-width="1.5"/>
           <g aria-hidden="true" data-semantic-sigil="backend" class="semantic-sigil s-backend" transform="translate(621.2 218) scale(0.6875)">
             <path d="M6 3 3 8l3 5M10 3l3 5-3 5"/>
           </g>
-          <text data-node-label="" data-detail-anchor="" x="688.2" y="233" class="t-primary" font-size="11" font-weight="600" text-anchor="middle">barometre</text>
-          <text data-detail="context" x="688.2" y="250" class="t-muted" font-size="8" text-anchor="middle">days_back, start_date</text>
-        <text data-detail="fine" x="688.2" y="268" class="t-backend" font-size="7" text-anchor="middle">always runs</text>
+          <text data-node-label="" data-detail-anchor="" x="688.2" y="246.2" class="t-primary" font-size="11" font-weight="600" text-anchor="middle">rrs-insecurity</text>
+          <text data-detail="context" x="688.2" y="261.1" class="t-muted" font-size="8" text-anchor="middle">defaults (barometre)</text>
+        <text data-detail="fine" x="688.2" y="273.9" class="t-backend" font-size="7" text-anchor="middle">clustering</text>
         </g>
 
-        <g id="node-s_clim" data-node-id="s_clim" data-node-label="rrs-climate" tabindex="0" role="button" aria-label="Focus rrs-climate, defaults (barometre), Standard perimeter" aria-pressed="false" data-node-kind="backend" data-node-sublabel="defaults (barometre)" data-node-tag="clustering" data-node-context="Standard perimeter">
-          <title>rrs-climate · defaults (barometre) · Standard perimeter · clustering</title>
+        <g id="node-s_poll" data-node-id="s_poll" data-node-label="rrs-pollution" tabindex="0" role="button" aria-label="Focus rrs-pollution, defaults (barometre), Standard perimeter" aria-pressed="false" data-node-kind="backend" data-node-sublabel="defaults (barometre)" data-node-tag="RAG + clustering" data-node-context="Standard perimeter">
+          <title>rrs-pollution · defaults (barometre) · Standard perimeter · RAG + clustering</title>
           <rect x="812.8000000000001" y="212" width="146" height="68" rx="6" class="c-mask"/>
           <rect x="812.8000000000001" y="212" width="146" height="68" rx="6" class="c-backend" stroke-width="1.5"/>
           <g aria-hidden="true" data-semantic-sigil="backend" class="semantic-sigil s-backend" transform="translate(818.8000000000001 218) scale(0.6875)">
             <path d="M6 3 3 8l3 5M10 3l3 5-3 5"/>
           </g>
-          <text data-node-label="" data-detail-anchor="" x="880.5000000000001" y="233" class="t-primary" font-size="11" font-weight="600" text-anchor="middle">rrs-climate</text>
-          <text data-detail="context" x="885.8000000000001" y="250" class="t-muted" font-size="8" text-anchor="middle">defaults (barometre)</text>
-        <text data-detail="fine" x="885.8000000000001" y="268" class="t-backend" font-size="7" text-anchor="middle">clustering</text>
+          <text data-node-label="" data-detail-anchor="" x="885.8000000000001" y="246.2" class="t-primary" font-size="11" font-weight="600" text-anchor="middle">rrs-pollution</text>
+          <text data-detail="context" x="885.8000000000001" y="261.1" class="t-muted" font-size="8" text-anchor="middle">defaults (barometre)</text>
+        <text data-detail="fine" x="885.8000000000001" y="273.9" class="t-backend" font-size="7" text-anchor="middle">RAG + clustering</text>
         </g>
 
-        <g id="node-s_insec" data-node-id="s_insec" data-node-label="rrs-insecurity" tabindex="0" role="button" aria-label="Focus rrs-insecurity, defaults (barometre), Standard perimeter" aria-pressed="false" data-node-kind="backend" data-node-sublabel="defaults (barometre)" data-node-tag="clustering" data-node-context="Standard perimeter">
-          <title>rrs-insecurity · defaults (barometre) · Standard perimeter · clustering</title>
+        <g id="node-s_metabase" data-node-id="s_metabase" data-node-label="metabase-sync" tabindex="0" role="button" aria-label="Focus metabase-sync, apply, force, Standard perimeter" aria-pressed="false" data-node-kind="backend" data-node-sublabel="apply, force" data-node-tag="allowFailure" data-node-context="Standard perimeter">
+          <title>metabase-sync · apply, force · Standard perimeter · allowFailure</title>
           <rect x="1010.4000000000001" y="212" width="146" height="68" rx="6" class="c-mask"/>
           <rect x="1010.4000000000001" y="212" width="146" height="68" rx="6" class="c-backend" stroke-width="1.5"/>
           <g aria-hidden="true" data-semantic-sigil="backend" class="semantic-sigil s-backend" transform="translate(1016.4000000000001 218) scale(0.6875)">
             <path d="M6 3 3 8l3 5M10 3l3 5-3 5"/>
           </g>
-          <text data-node-label="" data-detail-anchor="" x="1083.4" y="246.2" class="t-primary" font-size="11" font-weight="600" text-anchor="middle">rrs-insecurity</text>
-          <text data-detail="context" x="1083.4" y="261.1" class="t-muted" font-size="8" text-anchor="middle">defaults (barometre)</text>
-        <text data-detail="fine" x="1083.4" y="273.9" class="t-backend" font-size="7" text-anchor="middle">clustering</text>
+          <text data-node-label="" data-detail-anchor="" x="1083.4" y="246.2" class="t-primary" font-size="11" font-weight="600" text-anchor="middle">metabase-sync</text>
+          <text data-detail="context" x="1083.4" y="261.1" class="t-muted" font-size="8" text-anchor="middle">apply, force</text>
+        <text data-detail="fine" x="1083.4" y="273.9" class="t-backend" font-size="7" text-anchor="middle">allowFailure</text>
         </g>
 
         <!-- Edge labels -->
@@ -5127,19 +5166,31 @@ OTHER DEALINGS IN THE FONT SOFTWARE.
           <rect x="567.6000000000001" y="100" width="43.6" height="14" rx="3" class="c-mask"/>
           <text x="589.4000000000001" y="110" class="t-edge-emphasis" font-size="8" text-anchor="middle">success</text>
         </g>
-        <g data-detail="context" data-edge-from="s_insec_ext" data-edge-to="s_baro" data-edge-label="success" data-edge-key="2" data-edge-id="e-3">
-          <rect x="666.4000000000001" y="173" width="43.6" height="14" rx="3" class="c-mask"/>
-          <text x="688.2" y="183" class="t-edge-emphasis" font-size="8" text-anchor="middle">success</text>
+        <g data-detail="context" data-edge-from="s_insec_ext" data-edge-to="s_poll_ext" data-edge-label="success" data-edge-key="2" data-edge-id="e-3">
+          <rect x="765.2" y="100" width="43.6" height="14" rx="3" class="c-mask"/>
+          <text x="787" y="110" class="t-edge-emphasis" font-size="8" text-anchor="middle">success</text>
         </g>
-        <g data-detail="context" data-edge-from="s_baro" data-edge-to="s_clim" data-edge-label="success" data-edge-key="3" data-edge-id="e-4">
+        <g data-detail="context" data-edge-from="s_poll_ext" data-edge-to="s_baro" data-edge-label="success" data-edge-key="3" data-edge-id="e-4">
+          <rect x="419.40000000000003" y="176" width="43.6" height="14" rx="3" class="c-mask"/>
+          <text x="441.20000000000005" y="186" class="t-edge-emphasis" font-size="8" text-anchor="middle">success</text>
+        </g>
+        <g data-detail="context" data-edge-from="s_baro" data-edge-to="s_clim" data-edge-label="success" data-edge-key="4" data-edge-id="e-5">
+          <rect x="370" y="226" width="43.6" height="14" rx="3" class="c-mask"/>
+          <text x="391.8" y="236" class="t-edge-emphasis" font-size="8" text-anchor="middle">success</text>
+        </g>
+        <g data-detail="context" data-edge-from="s_clim" data-edge-to="s_insec" data-edge-label="success" data-edge-key="5" data-edge-id="e-6">
+          <rect x="567.6000000000001" y="226" width="43.6" height="14" rx="3" class="c-mask"/>
+          <text x="589.4000000000001" y="236" class="t-edge-emphasis" font-size="8" text-anchor="middle">success</text>
+        </g>
+        <g data-detail="context" data-edge-from="s_insec" data-edge-to="s_poll" data-edge-label="success" data-edge-key="6" data-edge-id="e-7">
           <rect x="765.2" y="226" width="43.6" height="14" rx="3" class="c-mask"/>
           <text x="787" y="236" class="t-edge-emphasis" font-size="8" text-anchor="middle">success</text>
         </g>
-        <g data-detail="context" data-edge-from="s_clim" data-edge-to="s_insec" data-edge-label="success" data-edge-key="4" data-edge-id="e-5">
+        <g data-detail="context" data-edge-from="s_poll" data-edge-to="s_metabase" data-edge-label="success" data-edge-key="7" data-edge-id="e-8">
           <rect x="962.8000000000002" y="226" width="43.6" height="14" rx="3" class="c-mask"/>
           <text x="984.6000000000001" y="236" class="t-edge-emphasis" font-size="8" text-anchor="middle">success</text>
         </g>
-        <g data-detail="context" data-edge-from="cron" data-edge-to="s_ext" data-edge-label="start" data-edge-key="5" data-edge-id="e-cron">
+        <g data-detail="context" data-edge-from="cron" data-edge-to="s_ext" data-edge-label="start" data-edge-key="8" data-edge-id="e-cron">
           <rect x="182" y="100" width="34" height="14" rx="3" class="c-mask"/>
           <text x="199" y="110" class="t-edge-dashed" font-size="8" text-anchor="middle">start</text>
         </g>
@@ -5338,8 +5389,8 @@ OTHER DEALINGS IN THE FONT SOFTWARE.
           <h3>Gates</h3>
         </div>
         <ul>
-          <li>with_rrs=false skips every step except barometre</li>
-          <li>A failed subflow fails main-pipeline and stops the remaining steps</li>
+          <li>with_rrs=false skips every step except barometre and metabase-sync</li>
+          <li>A failed subflow fails main-pipeline and stops the remaining steps; metabase-sync (allowFailure) only marks the run WARNING</li>
         </ul>
       </div>
 
@@ -5350,7 +5401,8 @@ OTHER DEALINGS IN THE FONT SOFTWARE.
         </div>
         <ul>
           <li>days_back and start_date (default today) go to extended-perimeter and barometre only</li>
-          <li>rrs-climate gets no dates and resumes from the rrs DB; rrs-insecurity uses its default days_back=1</li>
+          <li>rrs-climate gets no dates and resumes from the rrs DB; rrs-insecurity and rrs-pollution use their default days_back=1</li>
+          <li>metabase-sync runs last, once every table its Metabase queries read is built</li>
         </ul>
       </div>
     </div>
